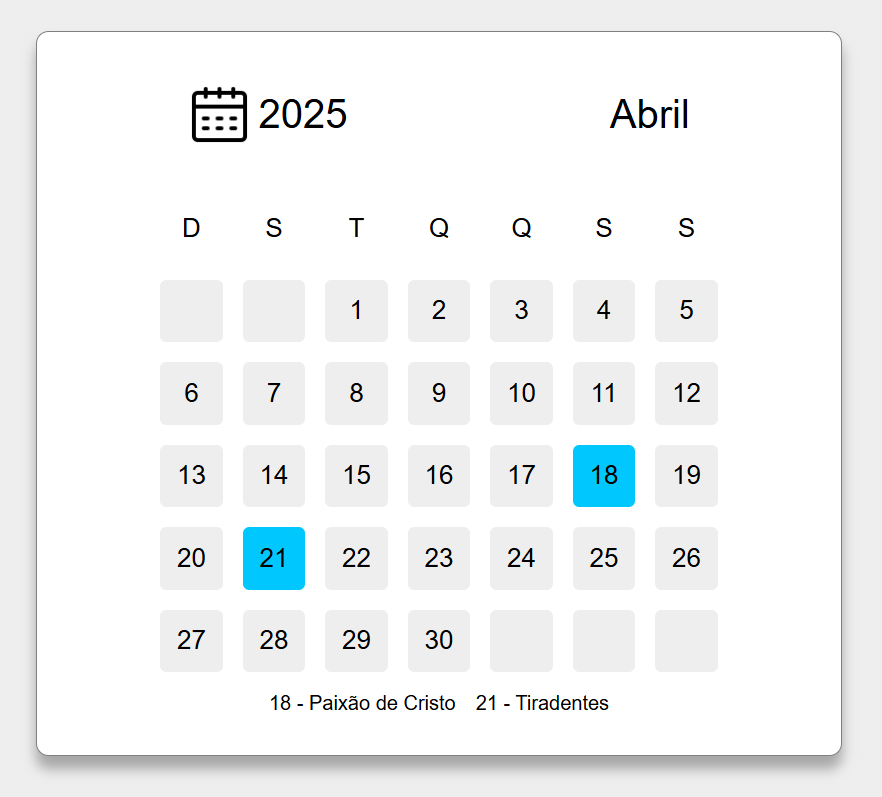
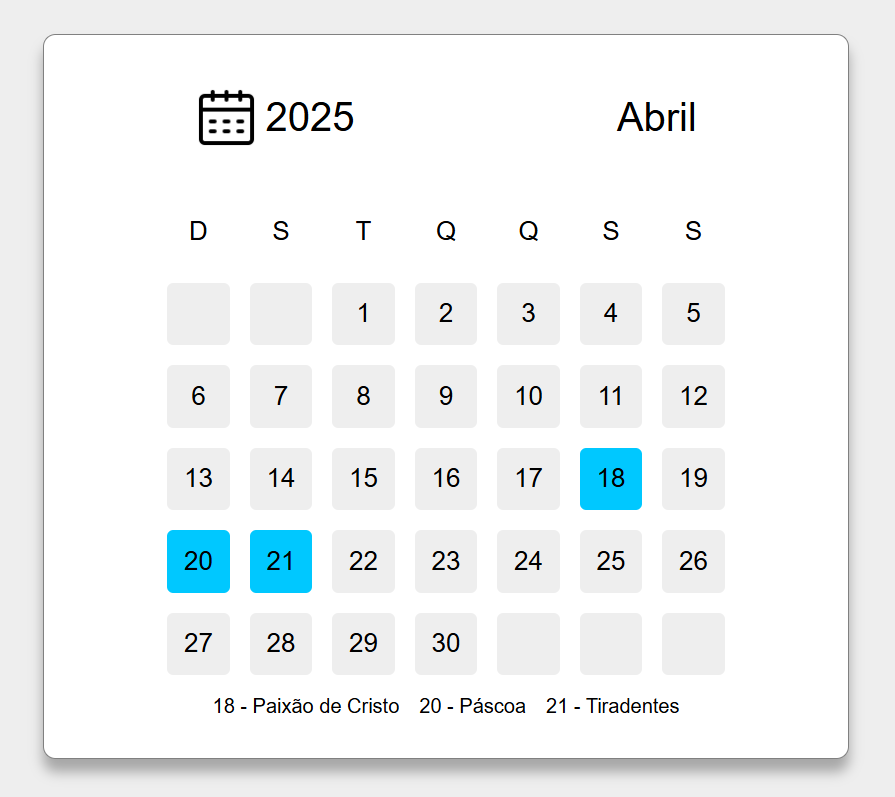
calendario

diff --git a/index.html b/index.html
@@ -3,7 +3,7 @@
 <head>
     <meta charset="UTF-8">
     <meta name="viewport" content="width=device-width, initial-scale=1.0">
-    <link rel="stylesheet" href="./Styles/style.css">
+    <link rel="stylesheet" href="./style.css">
     <title>Calendario 2025</title>
 </head>
 <body>
@@ -52,7 +52,7 @@
             <span id="dia">19</span>
         </div>
         <div class="barra">
-            <span id="dia">20</span>
+            <span id="feriado">20</span>
             <span id="feriado">21</span>
             <span id="dia">22</span>
             <span id="dia">23</span>
@@ -71,6 +71,7 @@
         </div>
         <div class="feriados_nacionais">
             <p>18 - Paixão de Cristo</p>
+            <p>20 - Páscoa</p>
             <p>21 - Tiradentes</p>
         </div>
     </div>
